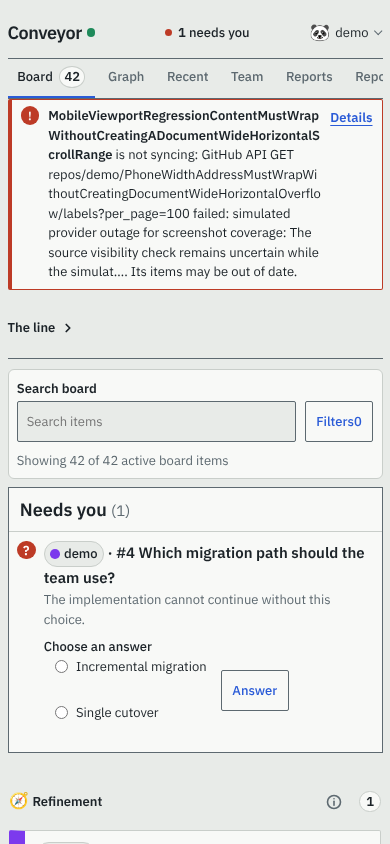
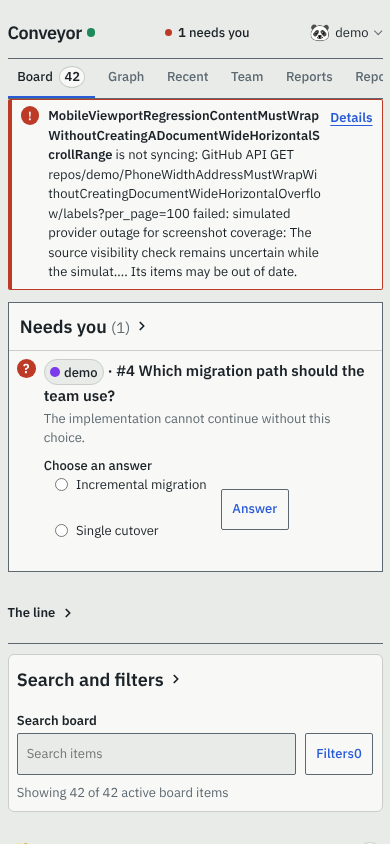
Board folds Needs you and search and filters sections like the line (#551)
* Board folds Needs you and search and filters like the line

* Regenerate dashboard screenshots after rebase

* Test that the filters fold choice survives a live redraw

---------

diff --git a/src/web/styles.ts b/src/web/styles.ts
@@ -1,5 +1,5 @@
 /** Runs before CSS is parsed so a persisted explicit theme never flashes. */
-export const themeInitScript = `try{const theme=localStorage.getItem("conveyor-theme");if(theme==="light"||theme==="dark")document.documentElement.dataset.theme=theme;const line=localStorage.getItem("conveyor-line");if(line==="open"||line==="closed")document.documentElement.dataset.line=line}catch{}`;
+export const themeInitScript = `try{const theme=localStorage.getItem("conveyor-theme");if(theme==="light"||theme==="dark")document.documentElement.dataset.theme=theme;const line=localStorage.getItem("conveyor-line");if(line==="open"||line==="closed")document.documentElement.dataset.line=line;for(const[k,a]of[["conveyor-needs-you","needsYou"],["conveyor-filters","filters"]]){const v=localStorage.getItem(k);if(v==="open"||v==="closed")document.documentElement.dataset[a]=v}}catch{}`;
 
 const darkThemeTokens = "color-scheme:dark;--concrete:#151A1D;--panel:#20272B;--ink:#F2F5F3;--steel:#AEB9BD;--run:#4DCE91;--wait:#F0B35B;--stop:#FF7B69;--run-text:#4DCE91;--wait-text:#F0B35B;--stop-text:#FF7B69;--signal:#83A7FF;--line:#465157;--on-signal:#0E1A34;--run-glow:rgba(77,206,145,.42);--stop-glow:rgba(255,123,105,.46);--overlay:rgba(0,0,0,.68);--popover-shadow:0 12px 32px rgba(0,0,0,.48);--inspector-shadow:-16px 0 44px rgba(0,0,0,.58);--loader-bg:rgba(21,26,29,.9);--repo-1:#7BA8FF;--repo-2:#BEA3FF;--repo-3:#63D5C5;--repo-4:#C5D66D;--repo-5:#66C7F0;--repo-6:#7ED68F;--repo-7:#9FA8FF;--repo-8:#A8BAC4";
 
@@ -21,7 +21,7 @@ export const dashboardCss = `
 .line{margin:.8rem 0 1rem;padding:.55rem .2rem .7rem;border-bottom:1px solid var(--steel)}.line>h2{margin:0 0 .4rem;font-size:var(--text-sm);font-weight:600}.line ol{display:flex;margin:0;padding:0;list-style:none}.line-station{position:relative;flex:1;min-width:5.5rem}.line-station::after{content:"";position:absolute;z-index:0;top:1.8rem;right:50%;left:-50%;height:3px;background:var(--steel)}.line-station:first-child::after{left:50%}.line-station a{position:relative;z-index:1;display:grid;justify-items:center;gap:.32rem;color:var(--ink);font-size:var(--text-sm);font-weight:500;text-align:center;text-decoration:none}.line-station a::before{content:"";order:2;width:.72rem;height:.72rem;border:3px solid var(--panel);border-radius:50%;background:var(--ink);box-shadow:0 0 0 1px var(--steel)}.line-station-name{order:1;white-space:nowrap}.line-station-state{order:3;display:flex;align-items:center;gap:.38rem;color:var(--steel);font-variant-numeric:tabular-nums}.line-station-state strong{color:var(--ink);font-size:var(--text-body)}.andon-signals,.andon-count{display:flex;align-items:center;gap:.18rem;min-height:.5rem}.andon-count small{font-size:var(--text-sm)}.andon{display:block;width:.48rem;height:.48rem;flex:none;border-radius:50%}.andon--run{background:var(--run)}.andon--wait{background:var(--wait)}.andon--stop{background:var(--stop)}.line-station--running::after{background:repeating-linear-gradient(90deg,var(--steel) 0 8px,var(--panel) 8px 12px);background-size:24px 3px}
 .repository-warnings{margin:0 0 .8rem}.repository-warnings ul{display:grid;gap:.35rem;margin:0;padding:0;list-style:none}.repository-warnings li{display:flex;align-items:center;gap:.6rem;padding:.45rem .6rem;border:1px solid var(--stop);border-left-width:4px;border-radius:2px;background:var(--panel);font-size:var(--text-sm)}.repository-warning-mark{display:inline-flex;flex:none;align-items:center;justify-content:center;width:1.25rem;height:1.25rem;border-radius:50%;background:var(--stop);color:var(--panel);font-weight:700;font-size:.8rem}.repository-warning-text{flex:1;min-width:0;color:var(--ink);overflow-wrap:anywhere}.repository-warnings a{flex:none;display:inline-flex;align-items:center;min-height:2rem;color:var(--signal);font-weight:600}@media(max-width:760px){.repository-warnings li{align-items:flex-start}.repository-warnings a{min-height:2.75rem;align-items:flex-start;padding-top:.1rem}}
 .system-warnings{margin:0 0 1rem;padding:.7rem .8rem;border:1px solid var(--stop);background:var(--panel);color:var(--stop-text)}.system-warnings h2{margin:0 0 .3rem;font-size:var(--text-body);font-weight:600}.system-warnings ul{margin:0;padding-left:1.2rem;font-size:var(--text-sm)}
-.needs-you{margin:0 0 1rem;border:1px solid var(--steel);background:var(--panel)}.needs-you>header{padding:.55rem .75rem;border-bottom:1px solid var(--line)}.needs-you h2{margin:0;font-size:var(--text-lg);font-weight:600}.needs-you h2 span{color:var(--steel);font-size:var(--text-body);font-weight:400}.needs-you-empty{margin:0;padding:.75rem;color:var(--steel);font-size:var(--text-sm)}.needs-you>ol{margin:0;padding:0;list-style:none}.needs-you-item{display:grid;grid-template-columns:1.25rem minmax(0,1fr) auto;align-items:center;gap:.75rem;padding:.6rem .75rem}.needs-you-item+.needs-you-item{border-top:1px solid var(--line)}.needs-you-item>.andon{width:.58rem;height:.58rem;justify-self:center}.needs-you-item h3{margin:0;font-size:var(--text-body);font-weight:600}.needs-you-item p{margin:.05rem 0 0;color:var(--steel);font-size:var(--text-sm);display:-webkit-box;-webkit-box-orient:vertical;-webkit-line-clamp:3;overflow:hidden;overflow-wrap:anywhere}.needs-you-question{display:grid;width:1.25rem;height:1.25rem;place-items:center;line-height:1;border-radius:50%;background:var(--stop);color:var(--on-signal);font-size:var(--text-sm);font-weight:600}.needs-you-item form{display:flex;align-items:center;justify-content:flex-end;gap:.55rem;flex-wrap:wrap}.question-answer-fields{display:grid;min-width:0;gap:.45rem}.question-options{display:grid;min-width:0;gap:.3rem;margin:0;padding:0;border:0}.question-options legend{padding:0;font-size:var(--text-sm);font-weight:500}.option{display:flex;align-items:flex-start;gap:.35rem;min-width:0;margin:0;font-size:var(--text-sm)}.option input{flex:none;margin-top:.2rem}.option-copy{display:grid;min-width:0;gap:.1rem}.option-description{color:var(--steel);overflow-wrap:anywhere}.free-text{display:grid;min-width:12rem;gap:.25rem;margin:0;font-size:var(--text-sm);font-weight:500}.free-text input{width:100%;min-width:0;border:1px solid var(--steel);padding:.35rem}
+.needs-you{margin:0 0 1rem;border:1px solid var(--steel);background:var(--panel)}.needs-you>header{padding:.2rem .75rem}.needs-you:not([data-count="0"])>header{border-bottom:1px solid var(--line)}.needs-you h2{margin:0;font-size:var(--text-lg);font-weight:600}.needs-you h2 [data-needs-you-count],.board-filters-heading [data-filters-summary]{color:var(--steel);font-size:var(--text-body);font-weight:400}.board-filters-heading{margin:0;padding:.2rem .55rem;font-size:var(--text-lg);font-weight:600}.needs-you-empty{margin:0;padding:.75rem;color:var(--steel);font-size:var(--text-sm)}.needs-you-list{margin:0;padding:0;list-style:none}.needs-you-item{display:grid;grid-template-columns:1.25rem minmax(0,1fr) auto;align-items:center;gap:.75rem;padding:.6rem .75rem}.needs-you-item+.needs-you-item{border-top:1px solid var(--line)}.needs-you-item>.andon{width:.58rem;height:.58rem;justify-self:center}.needs-you-item h3{margin:0;font-size:var(--text-body);font-weight:600}.needs-you-item p{margin:.05rem 0 0;color:var(--steel);font-size:var(--text-sm);display:-webkit-box;-webkit-box-orient:vertical;-webkit-line-clamp:3;overflow:hidden;overflow-wrap:anywhere}.needs-you-question{display:grid;width:1.25rem;height:1.25rem;place-items:center;line-height:1;border-radius:50%;background:var(--stop);color:var(--on-signal);font-size:var(--text-sm);font-weight:600}.needs-you-item form{display:flex;align-items:center;justify-content:flex-end;gap:.55rem;flex-wrap:wrap}.question-answer-fields{display:grid;min-width:0;gap:.45rem}.question-options{display:grid;min-width:0;gap:.3rem;margin:0;padding:0;border:0}.question-options legend{padding:0;font-size:var(--text-sm);font-weight:500}.option{display:flex;align-items:flex-start;gap:.35rem;min-width:0;margin:0;font-size:var(--text-sm)}.option input{flex:none;margin-top:.2rem}.option-copy{display:grid;min-width:0;gap:.1rem}.option-description{color:var(--steel);overflow-wrap:anywhere}.free-text{display:grid;min-width:12rem;gap:.25rem;margin:0;font-size:var(--text-sm);font-weight:500}.free-text input{width:100%;min-width:0;border:1px solid var(--steel);padding:.35rem}
 .tabs{display:flex;align-items:center;gap:.2rem;margin-bottom:.8rem;border-bottom:1px solid var(--steel)}.tab{display:flex;align-items:center;gap:.4rem;padding:.6rem .75rem;border-bottom:3px solid transparent;color:var(--steel);font-size:var(--text-sm);font-weight:500;text-decoration:none}.tab:hover{background:var(--panel)}.tab--active{border-bottom-color:var(--signal);color:var(--ink)}.needs-you-link{display:flex;align-items:center;gap:.35rem;color:var(--ink);font-size:var(--text-sm);font-weight:500;text-decoration:none;white-space:nowrap}.needs-you-link:hover{color:var(--signal)}.sticky-filter-summary{min-width:0;max-width:20rem;overflow:hidden;color:var(--steel);font-size:var(--text-sm);text-overflow:ellipsis;white-space:nowrap}#content,#needs-you-heading,[id^="station-"]{scroll-margin-top:calc(var(--dashboard-sticky-height) + .5rem)}.tab-count,.count{display:inline-grid;min-width:1.45rem;height:1.45rem;padding:0 .3rem;place-items:center;border:1px solid var(--line);border-radius:50%;background:var(--panel);color:var(--ink);font-size:var(--text-sm);font-weight:600;font-variant-numeric:tabular-nums}
 .board{display:flex;align-items:flex-start;gap:.6rem;overflow-x:auto;overscroll-behavior-x:contain;padding:.1rem .1rem 1rem;scrollbar-color:var(--steel) transparent}.stage{display:flex;flex-direction:column;scroll-margin-top:1rem;border:1px solid var(--line);border-radius:2px;background:var(--panel);padding:.65rem}.stage{width:min(20rem,86vw);min-width:min(20rem,86vw);max-width:min(20rem,86vw);flex:0 0 min(20rem,86vw)}.stage-heading{display:grid;grid-template-columns:minmax(0,1fr) auto;align-items:center;gap:.35rem .5rem;padding:0 0 .6rem}.stage-heading h2,.section-heading h2{margin:0;font-size:var(--text-lg);font-weight:600}.stage-identity,.stage-summary{display:contents}.stage-heading h2{grid-column:1;grid-row:1;min-width:0}.stage-heading .count{grid-column:2;grid-row:1}.stage-actors,.stage-cost{grid-column:1/-1}.stage-identity p{margin:.12rem 0 0;color:var(--steel);font-size:var(--text-sm)}.stage-identity strong{color:var(--ink);font-weight:500}.stage-cost{min-width:0;color:var(--steel);font-size:var(--text-sm);font-variant-numeric:tabular-nums;overflow-wrap:anywhere}.issue-list,.criteria-list,.relationships ul,.attention-grid,.agent-events,.agent-history ol{margin:0;padding:0;list-style:none}.issue-list{display:grid;gap:.55rem}.issue-list>li{min-width:0}.empty{margin:.2rem 0;padding:.75rem;color:var(--steel);font-size:var(--text-sm);text-align:center}
 .stage-actors{display:flex;flex-wrap:wrap;gap:.4rem;margin-top:.35rem}.stage-actor{display:flex;min-width:0;align-items:center;gap:.4rem;color:var(--steel);font-size:var(--text-sm)}.stage-actor>span:last-child{display:grid;min-width:0;line-height:1.2}.stage-actor strong{overflow:hidden;color:var(--ink);font-weight:500;text-overflow:ellipsis;white-space:nowrap}.stage-actor small{overflow:hidden;color:var(--steel);font-size:11px;text-overflow:ellipsis;white-space:nowrap}.agent-avatar{display:inline-grid;width:2rem;height:2rem;flex:0 0 2rem;place-items:center;border:1px solid rgba(255,255,255,.38);border-radius:50%;color:#fff;font-size:11px;font-weight:600;letter-spacing:.02em;line-height:1;box-shadow:0 1px 3px rgba(0,0,0,.18)}.agent-avatar--1{background:linear-gradient(145deg,#7357b8,#493184)}.agent-avatar--2{background:linear-gradient(145deg,#b34c78,#7c2854)}.agent-avatar--3{background:linear-gradient(145deg,#2f7e75,#1d5550)}.agent-avatar--4{background:linear-gradient(145deg,#3b75b5,#28517f)}.agent-avatar--5{background:linear-gradient(145deg,#9a6435,#6d421e)}.agent-avatar--6{background:linear-gradient(145deg,#507d48,#31582b)}.agent-avatar--script{border-color:var(--line);background:var(--concrete);color:var(--steel);font-family:"IBM Plex Mono",monospace;box-shadow:none}
@@ -117,6 +117,11 @@ export const quotaHeaderCss = `
 .relation-summary{display:flex;flex-wrap:wrap;align-items:center;gap:.25rem .35rem}.dep-chip{display:inline-flex;align-items:center;min-height:1.6rem;padding:0 .45rem;border:1px solid var(--line);border-radius:2px;background:var(--panel);color:var(--ink);font-size:.8rem;font-weight:500;font-variant-numeric:tabular-nums;text-decoration:none}button.dep-chip{cursor:pointer}.dep-chip:hover{border-color:var(--steel)}.dep-chip--stop{border-color:var(--stop);color:var(--stop-text)}.dep-chip--blocks{font-weight:600}.dep-chip[aria-pressed=true]{border-color:var(--signal);color:var(--signal)}.family-head .dep-chip{flex:none}.trace-banner{position:fixed;bottom:1.75rem;left:50%;z-index:31;display:flex;flex-wrap:wrap;align-items:center;gap:.5rem .8rem;width:min(46rem,calc(100vw - 2rem));box-sizing:border-box;margin:0;padding:.5rem .5rem .5rem .8rem;border:1px solid var(--signal);border-radius:2px;background:var(--panel);box-shadow:var(--popover-shadow);font-size:var(--text-sm);transform:translateX(-50%)}.trace-banner[hidden]{display:none}.trace-clear{margin-left:auto}body.tracing .board article.issue:not([data-trace-role]),body.tracing .board .family-row:not([data-trace-role])>.family-head{opacity:.25}.issue[data-trace-role=focus],.family-row[data-trace-role=focus]>.family-head{outline:2px solid var(--signal);outline-offset:2px}.issue[data-trace-role=up],.family-row[data-trace-role=up]>.family-head{outline:2px dashed var(--stop);outline-offset:2px}.issue[data-trace-role=down],.family-row[data-trace-role=down]>.family-head{outline:2px dashed var(--signal);outline-offset:2px}.trace-role{flex:none;margin-left:auto;padding:0 .35rem;border-radius:2px;font-size:.7rem;font-weight:600;letter-spacing:.02em;text-transform:uppercase}.trace-role--focus{background:var(--ink);color:var(--panel)}.trace-role--up{border:1px solid var(--stop);color:var(--stop-text)}.trace-role--down{border:1px solid var(--signal);color:var(--signal)}@media(prefers-reduced-motion:no-preference){.board article.issue,.family-head{transition:background-color .14s ease-out,border-color .14s ease-out,color .14s ease-out,opacity .2s cubic-bezier(.16,1,.3,1)}}@media(max-width:760px){.dep-chip{min-height:2.75rem;padding:0 .7rem}.family-head .dep-chip,.family-head .trace-role{order:7}}
 .needs-you-follow-up{display:grid;width:1.25rem;height:1.25rem;place-items:center;line-height:1;border:2px solid var(--wait);border-radius:2px;color:var(--wait);font-size:var(--text-sm);font-weight:600}
 .answer-status{margin:.35rem 0 0;color:var(--steel);font-size:var(--text-sm)}.answer-status:empty{display:none}.answer-button[aria-busy=true]{cursor:progress;opacity:.75}form[data-answering] input,form[data-answering] label{opacity:.6;pointer-events:none}
-.line-toggle{display:inline-flex;align-items:center;gap:.35rem;min-height:2rem;padding:0;border:0;background:none;color:inherit;font:inherit;cursor:pointer}.line-toggle:focus-visible{outline:2px solid var(--signal);outline-offset:2px}.line-body{display:grid;grid-template-rows:1fr}.line-body>ol{min-height:0;overflow:clip;overflow-clip-margin:4px}html[data-line=closed] .line-body{grid-template-rows:0fr}html[data-line=closed] .line-toggle svg{transform:rotate(-90deg)}@media(max-width:760px){html:not([data-line=open]) .line-body{grid-template-rows:0fr}html:not([data-line=open]) .line-toggle svg{transform:rotate(-90deg)}.line-toggle{min-height:2.75rem}}@media(prefers-reduced-motion:no-preference){body.board-motion .line-body{transition:grid-template-rows .24s cubic-bezier(.16,1,.3,1)}body.board-motion .line-toggle svg{transition:transform .24s cubic-bezier(.16,1,.3,1)}}
+.line-toggle{display:inline-flex;align-items:center;gap:.35rem;min-height:2rem;padding:0;border:0;background:none;color:inherit;font:inherit;cursor:pointer}.fold-body{display:grid;grid-template-rows:1fr}.fold-inner{min-height:0;overflow:clip}
+.line-toggle[aria-expanded=false] svg{transform:rotate(-90deg)}
+.line-toggle{text-align:left}.line-toggle>span{overflow-wrap:anywhere}
+html[data-needs-you=closed] [data-needs-you] .fold-body,html[data-filters=closed] [data-board-filters] .fold-body,html:not([data-needs-you=open]) [data-needs-you][data-count="0"] .fold-body{grid-template-rows:0fr}
+@media(max-width:760px){html:not([data-needs-you=open]) [data-needs-you] .fold-body,html:not([data-filters=open]) [data-board-filters] .fold-body{grid-template-rows:0fr}}
+.line-toggle:focus-visible{outline:2px solid var(--signal);outline-offset:2px}.line-body{display:grid;grid-template-rows:1fr}.line-body>ol{min-height:0;overflow:clip;overflow-clip-margin:4px}html[data-line=closed] .line-body{grid-template-rows:0fr}html[data-line=closed] .line-toggle svg{transform:rotate(-90deg)}@media(max-width:760px){html:not([data-line=open]) .line-body{grid-template-rows:0fr}html:not([data-line=open]) .line-toggle svg{transform:rotate(-90deg)}.line-toggle{min-height:2.75rem}}@media(prefers-reduced-motion:no-preference){body.board-motion .fold-body,body.board-motion .line-body{transition:grid-template-rows .24s cubic-bezier(.16,1,.3,1)}body.board-motion .line-toggle svg{transition:transform .24s cubic-bezier(.16,1,.3,1)}}
 .repository-pause-badge{display:inline-flex;flex:none;align-items:center;padding:.03rem .35rem;border:1px solid var(--wait);border-radius:999px;color:var(--wait);font-size:.75rem;font-weight:600;line-height:1.25;white-space:nowrap}.repository-paused-detail{margin:.45rem 0 0;color:var(--wait);font-size:var(--text-sm);overflow-wrap:anywhere}.repository-actions{display:flex;flex-wrap:wrap;align-items:end;gap:.5rem}.repository-actions form{display:flex;flex-wrap:wrap;align-items:end;gap:.35rem}.repository-actions label{display:grid;gap:.2rem;color:var(--steel);font-size:var(--text-sm)}.repository-actions input{min-width:0;min-height:2.25rem;max-width:16rem;border:1px solid var(--steel);border-radius:2px;background:var(--concrete);color:var(--ink);padding:.45rem .6rem;font:inherit}@media(max-width:760px){.repository-actions,.repository-actions form{align-items:stretch;flex-direction:column}.repository-actions input{max-width:none}}
 `;

diff --git a/tests/web/refresh-position.test.ts b/tests/web/refresh-position.test.ts
@@ -284,6 +284,18 @@ async function openView(page: Awaited<ReturnType<Browser["newPage"]>>, port: num
   await page.locator("main.dashboard").waitFor();
 }
 
+const sampleQuestion = (id: string) => ({
+  id, issueId: "card-1", repository: "sample", repositoryColor: 1, issueNumber: 3, issueTitle: "Card",
+  prompt: `Which database (${id})?`, reason: "It decides the schema.", options: [{ id: "postgres", label: "PostgreSQL" }], allowFreeText: false,
+});
+
+/** Opens a Board section that starts folded (Needs you and the filters do on a phone). */
+async function openFold(page: Awaited<ReturnType<Browser["newPage"]>>, name: "needs-you" | "filters") {
+  const toggle = page.locator(`[data-fold-toggle="${name}"]`);
+  if ((await toggle.getAttribute("aria-expanded")) === "false") await toggle.click();
+  await page.waitForFunction((section) => document.querySelector(`[data-fold-toggle="${section}"]`)?.getAttribute("aria-expanded") === "true", name);
+}
+
 async function signIn(page: Awaited<ReturnType<Browser["newPage"]>>, port: number | undefined) {
   await page.goto(`http://127.0.0.1:${port}/login`);
   await page.locator('input[name="username"]').fill("operator");
@@ -1287,6 +1299,7 @@ describe("dashboard live refresh position", () => {
 
       const phone = await browser.newPage({ viewport: { width: 360, height: 800 }, isMobile: true, hasTouch: true, reducedMotion: "reduce" });
       await signIn(phone, server.port);
+      await openFold(phone, "filters");
       const collapsed = await phone.evaluate(() => {
         const form = document.querySelector('[data-filter-form]')!;
         const visible = [...form.children].filter((child) => getComputedStyle(child).display !== "none");
@@ -1529,6 +1542,7 @@ describe("dashboard live refresh position", () => {
       browser = await chromium.launch({ headless: true });
       const page = await browser.newPage({ viewport: { width: 360, height: 800 }, isMobile: true, hasTouch: true });
       await signIn(page, server.port);
+      await openFold(page, "needs-you");
       await page.evaluate(() => { (document.querySelector("main.dashboard") as unknown as { untouched: boolean }).untouched = true; });
       await page.locator('input[name="answer"][value="postgres"]').check();
       await page.locator(".answer-button").click();
@@ -1561,6 +1575,7 @@ describe("dashboard live refresh position", () => {
       browser = await chromium.launch({ headless: true });
       const page = await browser.newPage({ viewport: { width: 360, height: 800 }, isMobile: true, hasTouch: true });
       await signIn(page, server.port);
+      await openFold(page, "needs-you");
       const form = page.locator("[data-answer-form]");
       const submit = form.locator(".answer-button");
 
@@ -1613,6 +1628,8 @@ describe("dashboard live refresh position", () => {
       for (const colorScheme of ["light", "dark"] as const) {
         const page = await browser.newPage({ viewport: { width: 360, height: 800 }, isMobile: true, hasTouch: true, colorScheme });
         await signIn(page, server.port);
+        await openFold(page, "needs-you");
+        await openFold(page, "filters");
         await page.locator(".needs-you-item--question").waitFor();
         expect(await page.evaluate(() => document.documentElement.scrollWidth <= window.innerWidth)).toBe(true);
         await page.close();
@@ -1877,4 +1894,101 @@ describe("dashboard live refresh position", () => {
       server.stop(true);
     }
   }, 30_000);
+  const sectionState = (page: Awaited<ReturnType<Browser["newPage"]>>, name: string) => page.evaluate((section) => ({
+    expanded: document.querySelector(`[data-fold-toggle="${section}"]`)?.getAttribute("aria-expanded"),
+    controls: document.getElementById(document.querySelector(`[data-fold-toggle="${section}"]`)?.getAttribute("aria-controls") ?? "")?.classList.contains("fold-body"),
+    label: document.querySelector(`[data-fold-toggle="${section}"]`)?.textContent?.replace(/\s+/g, " ").trim(),
+  }), name);
+
+  test("the Board stacks Needs you, the line and the filters above the columns, and Needs you folds itself when empty", async () => {
+    let revision = "empty";
+    let questions: ReturnType<typeof sampleQuestion>[] = [];
+    const server = startDashboard({
+      dashboard: () => ({ ...dashboard(revision, [issue("card-1", 3, "Card")]), questions }),
+      revision: () => revision,
+    });
+    try {
+      browser = await chromium.launch({ headless: true });
+      const page = await browser.newPage({ viewport: { width: 1280, height: 900 }, reducedMotion: "reduce" });
+      await signIn(page, server.port);
+      const tops = await page.evaluate(() => ["[data-needs-you]", ".line", "[data-board-filters]", ".board"].map((selector) => document.querySelector(selector)!.getBoundingClientRect().top));
+      expect(tops).toEqual([...tops].sort((a, b) => a - b));
+      expect(new Set(tops).size).toBe(4);
+      expect(await sectionState(page, "needs-you")).toEqual({ expanded: "false", controls: true, label: "Needs you (0)" });
+
+      // Something starts needing the viewer: the section unfolds.
+      questions = [sampleQuestion("q-1")];
+      revision = "one";
+      await page.waitForFunction(() => document.querySelector('[data-fold-toggle="needs-you"]')?.getAttribute("aria-expanded") === "true");
+      expect((await sectionState(page, "needs-you")).label).toBe("Needs you (1)");
+
+      // The viewer folds it; another item updates the count and leaves it folded, across a redraw.
+      await page.locator('[data-fold-toggle="needs-you"]').click();
+      expect((await sectionState(page, "needs-you")).expanded).toBe("false");
+      questions = [sampleQuestion("q-1"), sampleQuestion("q-2")];
+      revision = "two";
+      await page.waitForFunction(() => document.querySelector('[data-fold-toggle="needs-you"]')?.textContent?.includes("(2)"));
+      expect((await sectionState(page, "needs-you")).expanded).toBe("false");
+      // The choice is kept across a reload.
+      await page.reload();
+      await page.locator("main.dashboard").waitFor();
+      expect(await sectionState(page, "needs-you")).toMatchObject({ expanded: "false", label: "Needs you (2)" });
+      await page.locator('[data-fold-toggle="needs-you"]').click();
+      await page.reload();
+      await page.locator("main.dashboard").waitFor();
+      expect((await sectionState(page, "needs-you")).expanded).toBe("true");
+    } finally {
+      server.stop(true);
+    }
+  }, 30_000);
+
+  test("the filters fold, say what is active while folded, keep filtering, and start folded on a phone", async () => {
+    let revision = "filters";
+    let otherTitle = "Other";
+    const server = startDashboard({
+      dashboard: () => dashboard(revision, [issue("card-1", 3, "Card"), issue("card-2", 4, otherTitle)]),
+      revision: () => revision,
+    });
+    try {
+      browser = await chromium.launch({ headless: true });
+      const page = await browser.newPage({ viewport: { width: 1280, height: 900 }, reducedMotion: "reduce" });
+      await signIn(page, server.port);
+      expect(await sectionState(page, "filters")).toEqual({ expanded: "true", controls: true, label: "Search and filters" });
+      await page.locator("[data-filter-search]").fill("Other");
+      await page.waitForFunction(() => location.search.includes("q=Other"));
+      await page.locator('[data-fold-toggle="filters"]').click();
+      expect(await sectionState(page, "filters")).toEqual({ expanded: "false", controls: true, label: "Search and filters · 1 active · “Other”" });
+      expect(await page.locator('article.issue[data-issue-id="card-1"]').isHidden()).toBe(true);
+      expect(await page.locator('article.issue[data-issue-id="card-2"]').isVisible()).toBe(true);
+      await page.reload();
+      await page.locator("main.dashboard").waitFor();
+      expect((await sectionState(page, "filters")).expanded).toBe("false");
+      // A live redraw keeps the folded choice (the server markup is always open).
+      otherTitle = "Other redrawn";
+      revision = "filters-2";
+      await page.waitForFunction(() => document.querySelector('article.issue[data-issue-id="card-2"]')?.textContent?.includes("Other redrawn"));
+      expect((await sectionState(page, "filters")).expanded).toBe("false");
+      await page.locator('[data-fold-toggle="filters"]').click();
+      expect((await sectionState(page, "filters")).expanded).toBe("true");
+      // ...and the unfolded choice.
+      otherTitle = "Other redrawn again";
+      revision = "filters-3";
+      await page.waitForFunction(() => document.querySelector('article.issue[data-issue-id="card-2"]')?.textContent?.includes("redrawn again"));
+      expect((await sectionState(page, "filters")).expanded).toBe("true");
+
+      for (const colorScheme of ["light", "dark"] as const) {
+        const phone = await browser.newPage({ viewport: { width: 360, height: 800 }, isMobile: true, hasTouch: true, colorScheme, reducedMotion: "reduce" });
+        await signIn(phone, server.port);
+        expect((await sectionState(phone, "filters")).expanded).toBe("false");
+        expect((await sectionState(phone, "needs-you")).expanded).toBe("false");
+        expect(await phone.evaluate(() => document.documentElement.scrollWidth <= window.innerWidth)).toBe(true);
+        await phone.locator('[data-fold-toggle="filters"]').click();
+        await phone.locator('[data-fold-toggle="needs-you"]').click();
+        expect(await phone.evaluate(() => document.documentElement.scrollWidth <= window.innerWidth)).toBe(true);
+        await phone.close();
+      }
+    } finally {
+      server.stop(true);
+    }
+  }, 40_000);
 });

diff --git a/src/web/render.tsx b/src/web/render.tsx
@@ -752,6 +752,13 @@ function BacklogCell({ issues, model, canManage, thread }: { issues: readonly Is
 }
 
 /** Compact browser-first filters. The form remains a useful GET fallback when JavaScript is absent. */
+/** What a folded filters header says: how many filters are active and the search text. */
+function filtersSummary(filters: DashboardViewModel["boardFilters"]): string {
+  const q = filters?.q.trim() ?? "";
+  const active = (filters?.repositories.length ?? 0) + (filters?.state ? 1 : 0) + (q ? 1 : 0);
+  return `${active > 0 ? ` · ${active} active` : ""}${q ? ` · “${q}”` : ""}`;
+}
+
 function BoardFilters({ model }: { model: DashboardViewModel }) {
   const active = [
     ...model.backlog,
@@ -769,7 +776,14 @@ function BoardFilters({ model }: { model: DashboardViewModel }) {
   const state = model.boardFilters?.state ?? null;
   const repositories = model.repositories.filter((repository) => byRepository.has(repository.id) || repository.health === "degraded");
   return (
-    <section class="board-filters" data-board-filters aria-label="Board filters">
+    <section class="board-filters" data-board-filters aria-labelledby="board-filters-heading">
+      <h2 id="board-filters-heading" class="board-filters-heading">
+        <button type="button" class="line-toggle" data-fold-toggle="filters" aria-expanded="true" aria-controls="board-filters-body">
+          <span>Search and filters<span data-filters-summary>{filtersSummary(model.boardFilters)}</span></span>
+          <svg width="14" height="14" viewBox="0 0 16 16" fill="none" stroke="currentColor" stroke-width="2" stroke-linecap="round" stroke-linejoin="round" aria-hidden="true"><path d="M4 6l4 4 4-4" /></svg>
+        </button>
+      </h2>
+      <div class="fold-body" id="board-filters-body"><div class="fold-inner">
       <form method="get" action="/board" data-filter-form>
         <label class="board-filter-search">Search board
           <input type="search" name="q" value={q} placeholder="Search items" data-filter-search />
@@ -798,6 +812,7 @@ function BoardFilters({ model }: { model: DashboardViewModel }) {
         <button type="button" class="board-filter-clear action-button action-button--secondary" data-filter-clear hidden>Clear filters</button>
         <p class="board-filter-summary" data-filter-summary aria-live="polite">Showing {active.length} of {active.length} active board items</p>
       </form>
+      </div></div>
     </section>
   );
 }
@@ -1137,9 +1152,15 @@ function NeedsYou({ model }: { model: DashboardViewModel }) {
   const canManage = canManageDashboard(model);
   const { stopped, followUps, total } = needsYouItems(model);
   return (
-    <section class="needs-you" aria-labelledby="needs-you-heading">
-      <header><h2 id="needs-you-heading">Needs you <span>({total})</span></h2></header>
-      {total === 0 ? <p class="needs-you-empty">No items need your attention right now.</p> : <ol>
+    <section class="needs-you" aria-labelledby="needs-you-heading" data-needs-you data-count={total}>
+      <header><h2 id="needs-you-heading">
+        <button type="button" class="line-toggle" data-fold-toggle="needs-you" aria-expanded={total > 0 ? "true" : "false"} aria-controls="needs-you-body">
+          <span>Needs you <span data-needs-you-count>({total})</span></span>
+          <svg width="14" height="14" viewBox="0 0 16 16" fill="none" stroke="currentColor" stroke-width="2" stroke-linecap="round" stroke-linejoin="round" aria-hidden="true"><path d="M4 6l4 4 4-4" /></svg>
+        </button>
+      </h2></header>
+      <div class="fold-body" id="needs-you-body"><div class="fold-inner">
+      {total === 0 ? <p class="needs-you-empty">No items need your attention right now.</p> : <ol class="needs-you-list">
         {stopped.map((issue) => (
           <li class={`needs-you-item repo-color-${issue.repositoryColor}`} key={issue.id}>
             <span class="andon andon--stop" aria-hidden="true" />
@@ -1193,6 +1214,7 @@ function NeedsYou({ model }: { model: DashboardViewModel }) {
           </li>
         ))}
       </ol>}
+      </div></div>
     </section>
   );
 }
@@ -1771,7 +1793,7 @@ export function DashboardBody({ model }: { model: DashboardViewModel }) {
       </div>
       {model.systemWarnings.length > 0 && <section class="system-warnings" role="alert"><h2>System attention</h2><ul>{model.systemWarnings.map((warning) => <li key={warning}>{warning}</li>)}</ul></section>}
       <div class="content-anchor" id="content" tabIndex={-1} />
-      {model.view === "board" && <><RepositoryWarnings model={model} /><Line model={model} /><BoardFilters model={model} /><NeedsYou model={model} /></>}
+      {model.view === "board" && <><RepositoryWarnings model={model} /><NeedsYou model={model} /><Line model={model} /><BoardFilters model={model} /></>}
       {content}
       {model.selectedIssue && (
         <DetailsDialog

diff --git a/src/web/app/behaviour.ts b/src/web/app/behaviour.ts
@@ -95,6 +95,43 @@ function applyLineFold(root: ParentNode): void {
   if (stations) stations.inert = !open;
 }
 
+/** The sections that fold like the line; each remembers the reader's choice in the browser. */
+const FOLD_SECTIONS = {
+  "needs-you": { dataset: "needsYou", storage: "conveyor-needs-you", selector: "[data-needs-you]" },
+  filters: { dataset: "filters", storage: "conveyor-filters", selector: "[data-board-filters]" },
+} as const;
+type FoldSection = keyof typeof FOLD_SECTIONS;
+
+const needsYouCount = (root: ParentNode) => Number(root.querySelector("[data-needs-you]")?.getAttribute("data-count") ?? 0);
+let lastNeedsYouCount: number | null = null;
+
+function foldSectionOpen(root: ParentNode, name: FoldSection): boolean {
+  const choice = document.documentElement.dataset[FOLD_SECTIONS[name].dataset];
+  if (choice === "open" || choice === "closed") return choice === "open";
+  return !narrow() && (name !== "needs-you" || needsYouCount(root) > 0);
+}
+
+function applyFoldSections(root: ParentNode): void {
+  const count = needsYouCount(root);
+  if (root.querySelector("[data-needs-you]")) {
+    // A change between empty and non-empty starts over: it unfolds when something needs the reader
+    // and folds when nothing does, until the reader folds or opens it again.
+    if (lastNeedsYouCount !== null && (lastNeedsYouCount === 0) !== (count === 0)) {
+      const entry = FOLD_SECTIONS["needs-you"];
+      if (count > 0) document.documentElement.dataset[entry.dataset] = "open";
+      else delete document.documentElement.dataset[entry.dataset];
+      try { localStorage.removeItem(entry.storage); } catch { /* Kept for the page. */ }
+    }
+    lastNeedsYouCount = count;
+  }
+  for (const name of Object.keys(FOLD_SECTIONS) as FoldSection[]) {
+    const open = foldSectionOpen(root, name);
+    root.querySelector(`[data-fold-toggle="${name}"]`)?.setAttribute("aria-expanded", open ? "true" : "false");
+    const body = root.querySelector(`${FOLD_SECTIONS[name].selector} .fold-body`);
+    if (body instanceof HTMLElement) body.inert = !open;
+  }
+}
+
 const FILTER_STATES = new Set(["needs-you", "running", "waiting"]);
 
 interface BoardFilters { repositories: string[]; q: string; state: string | null }
@@ -185,6 +222,8 @@ function applyBoardFilters(root: ParentNode): void {
     if (counter) counter.textContent = String(selectedCount);
     more.setAttribute("aria-label", `Filters (${selectedCount})`);
   }
+  const headline = filter.querySelector("[data-filters-summary]");
+  if (headline) headline.textContent = `${selectedCount > 0 ? ` · ${selectedCount} active` : ""}${words.length > 0 ? ` · “${values.q.trim()}”` : ""}`;
   const labels = [
     ...values.repositories.map((repository) => [...filter.querySelectorAll<HTMLInputElement>("[data-filter-repository]")].find((input) => input.value === repository)?.closest("label")?.textContent?.trim() ?? repository),
     ...(words.length > 0 ? [`“${values.q.trim()}”`] : []),
@@ -427,6 +466,7 @@ export function afterRender(root: ParentNode, agentId: string | null = null): vo
   syncThemeControls(root);
   applyRowFolds(root);
   applyLineFold(root);
+  applyFoldSections(root);
   applyBoardFilters(root);
   applyTrace(root);
   syncStickyHeight(root);
@@ -800,6 +840,16 @@ export function bindBoardBehaviour(options: { root: HTMLElement; store: LiveStor
       applyLineFold(root);
       return;
     }
+    const sectionToggle = element(target, "[data-fold-toggle]", HTMLButtonElement);
+    if (sectionToggle) {
+      const name = sectionToggle.getAttribute("data-fold-toggle") as FoldSection;
+      const entry = FOLD_SECTIONS[name];
+      const open = !foldSectionOpen(root, name);
+      document.documentElement.dataset[entry.dataset] = open ? "open" : "closed";
+      try { localStorage.setItem(entry.storage, open ? "open" : "closed"); } catch { /* Kept for the page. */ }
+      applyFoldSections(root);
+      return;
+    }
     const fold = element(target, "[data-row-fold]", HTMLButtonElement);
     if (fold) {
       const row = fold.getAttribute("data-row-fold");
@@ -1120,7 +1170,7 @@ export function bindBoardBehaviour(options: { root: HTMLElement; store: LiveStor
   });
 
   window.addEventListener("resize", () => syncStickyHeight(root));
-  window.matchMedia("(max-width: 760px)").addEventListener("change", () => applyLineFold(root));
+  window.matchMedia("(max-width: 760px)").addEventListener("change", () => { applyLineFold(root); applyFoldSections(root); });
   // Relative times and quota countdowns move on without new data.
   setInterval(() => {
     localizeTimes(root);

diff --git a/tests/web/render.test.ts b/tests/web/render.test.ts
@@ -1362,7 +1362,7 @@ describe("renderDashboard", () => {
     const emptyBoard = renderDashboard({ ...dashboard, questions: [], needsYou: [] });
 
     expect(emptyBoard).toContain('class="dashboard-sticky"');
-    expect(emptyBoard).toContain('id="needs-you-heading">Needs you <span>(0)</span>');
+    expect(emptyBoard).toContain('aria-expanded="false" aria-controls="needs-you-body"><span>Needs you <span data-needs-you-count="true">(0)</span>');
     expect(emptyBoard).toContain('No items need your attention right now.');
     expect(emptyBoard).toContain('aria-label="Connection state: Connecting"');
     expect(dashboardCss).toContain('.dashboard-sticky{position:sticky;top:0;z-index:20;background:var(--concrete)');
@@ -1560,7 +1560,7 @@ describe("renderDashboard", () => {
     expect(html).toContain('.blocked-summary{margin:.75rem 0 0;');
     expect(html).toContain('color:var(--stop)');
     expect(html).toContain("Label problems");
-    expect(html).toContain("Needs you <span>(2)</span>");
+    expect(html).toContain('Needs you <span data-needs-you-count="true">(2)</span>');
     expect(html).toContain("#41 Build &lt;safe> &amp; sound");
     expect(html).toContain('<a class="needs-you-action action-button action-button--secondary" href="/issues/sample/41">Open</a>');
     expect(html).toContain("/questions/question%2F1/answer");

diff --git a/scripts/regenerate-screenshots.ts b/scripts/regenerate-screenshots.ts
@@ -899,6 +899,10 @@ async function verifyPhoneLayouts(page: Page, baseUrl: string): Promise<void> {
       await expectDocumentToFitPhoneViewport(page, name, width);
       await expectNonScrollerContentToFitPhoneViewport(page, name, width);
       if (name === "board") {
+        for (const section of ["needs-you", "filters"]) {
+          const toggle = page.locator(`[data-fold-toggle="${section}"]`);
+          if ((await toggle.getAttribute("aria-expanded")) === "false") await toggle.click();
+        }
         await page.getByRole("button", { name: /^Filters/ }).click();
         await expectReachableElement(
           page.locator('.tabs a[href="/repositories"]'),

diff --git a/tests/app/dashboard.test.ts b/tests/app/dashboard.test.ts
@@ -2319,7 +2319,7 @@ describe("ConveyorService dashboard", () => {
     expect(filtered.needsYou).toEqual(dashboard.needsYou);
     expect(filtered.questions).toEqual(dashboard.questions);
     const html = renderDashboard(dashboard);
-    expect(html).toContain('id="needs-you-heading">Needs you <span>(6)</span>');
+    expect(html).toContain('Needs you <span data-needs-you-count="true">(6)</span>');
     expect(html).toContain('<a class="needs-you-action action-button action-button--secondary" href="/issues/repo/1">Open</a>');
     store.close();
   });

diff --git a/changes/544-board-folds-needs-you-and-filters.md b/changes/544-board-folds-needs-you-and-filters.md
@@ -1,0 +1,5 @@
+---
+section: Changed
+---
+
+The Board now stacks Needs you, the line, then search and filters above the stage columns. Needs you and search and filters fold like the line, with the count or active filters shown in the folded header. Needs you folds itself while nothing needs you and unfolds when something does, unless you folded it. Both start folded on a phone, and your choice is remembered in the browser.
